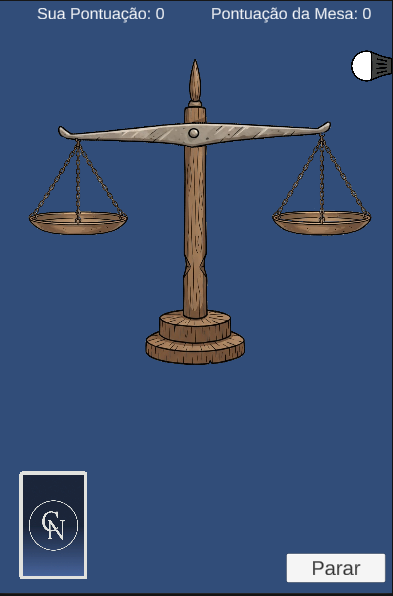
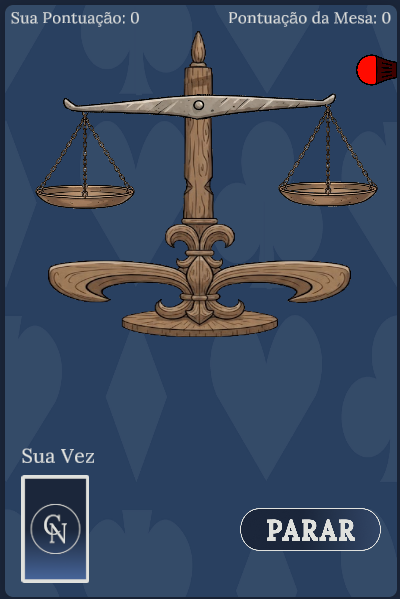
Versão 2 do blackjack - modificações na sobre - responsividade da pagina contato - (2)

diff --git a/src/Components/Pages/Sobre.jsx b/src/Components/Pages/Sobre.jsx
@@ -7,7 +7,7 @@ import blackjackCover from "../../assets/blackjack-cover.png";
 import FichaAzul from "../../assets/Ficha_azul.png";
 import FichaLaranja from "../../assets/Ficha_laranja.png";
 import backCard from "../../assets/backCard.png";
-import cores from "../../assets/cores.png";
+import cores from "../../assets/Cores.png";
 
 const tabs = [
   {
